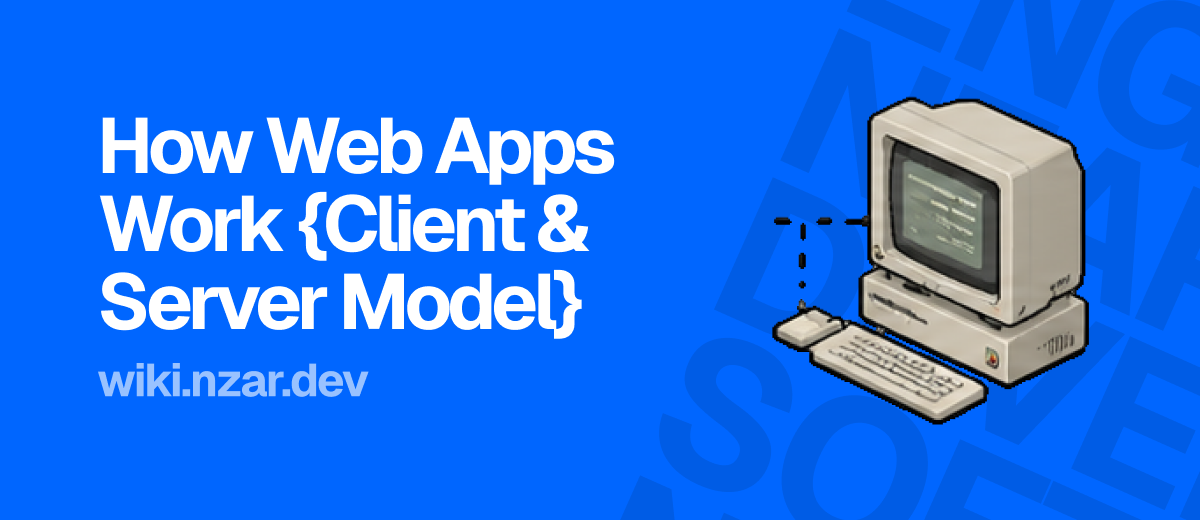
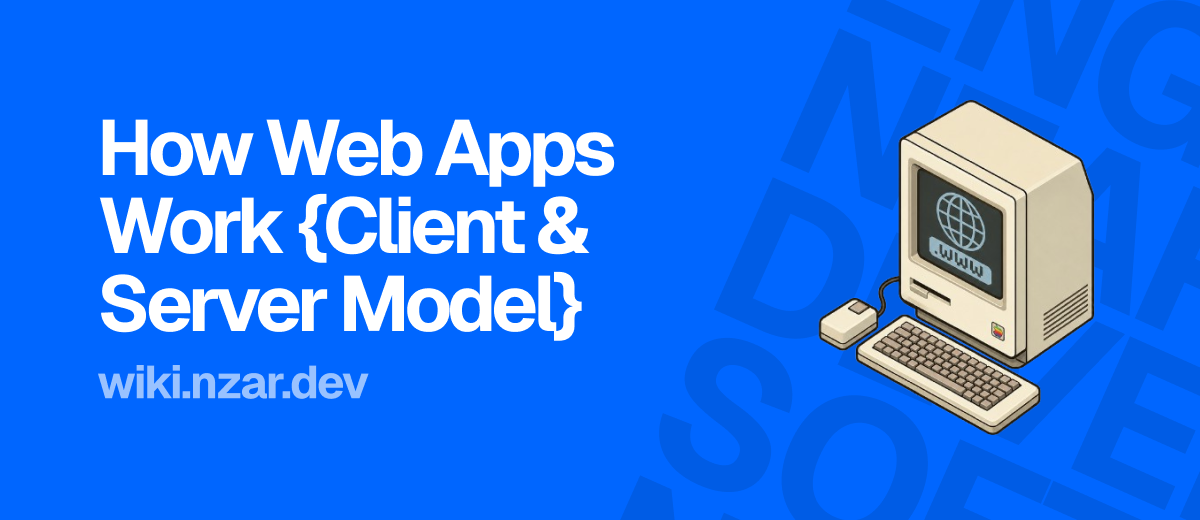
docs: update and rename "How Computers Store Data" article

diff --git a/src/data/roadmap.ts b/src/data/roadmap.ts
@@ -74,12 +74,12 @@ export const roadmap: Roadmap[] = [
             url: "how-servers-work-request-response-cycle",
           },
           {
-            name: "Binary, Hexadecimal and How Computers Store Data",
-            url: "binary-hexadecimal-and-how-computers-store-data",
+            name: "How Computers Store Data: Binary, Hexadecimal",
+            url: "how-computers-store-data-binary-hexadecimal",
           },
           {
-            name: "The Abstraction Ladder: Hardware -> OS -> Runtime  App",
-            url: "the-abstraction-ladder-hardware-os-runtime-app",
+            name: "How Everything Works: From Hardware to App",
+            url: "how-everything-works-from-hardware-to-app",
           },
         ],
       },